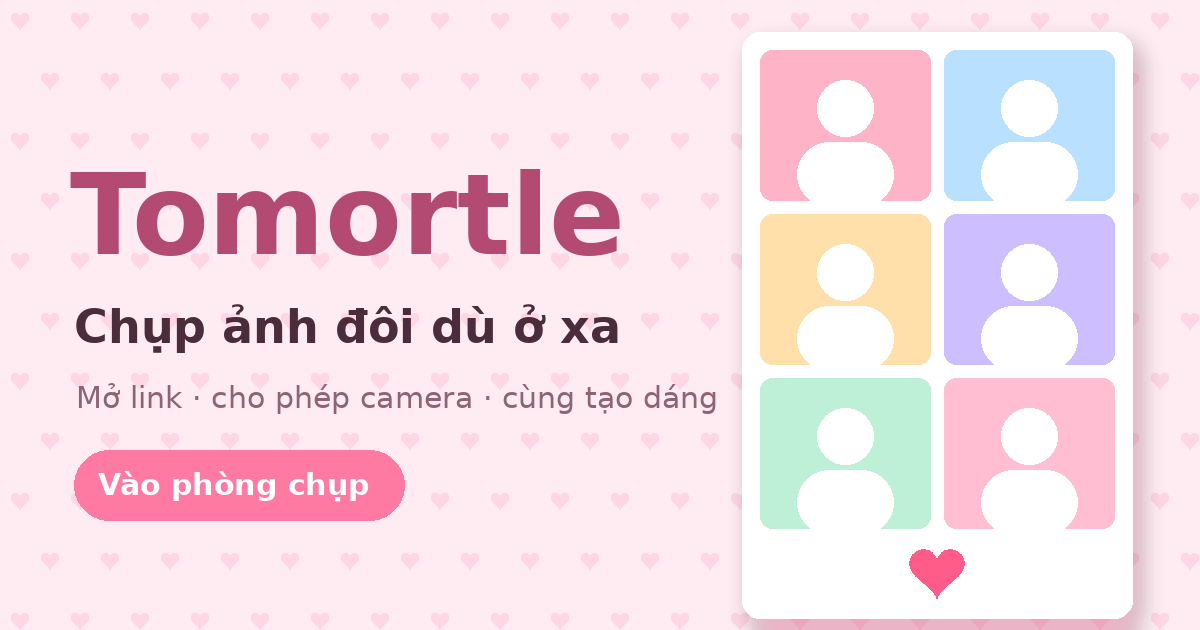
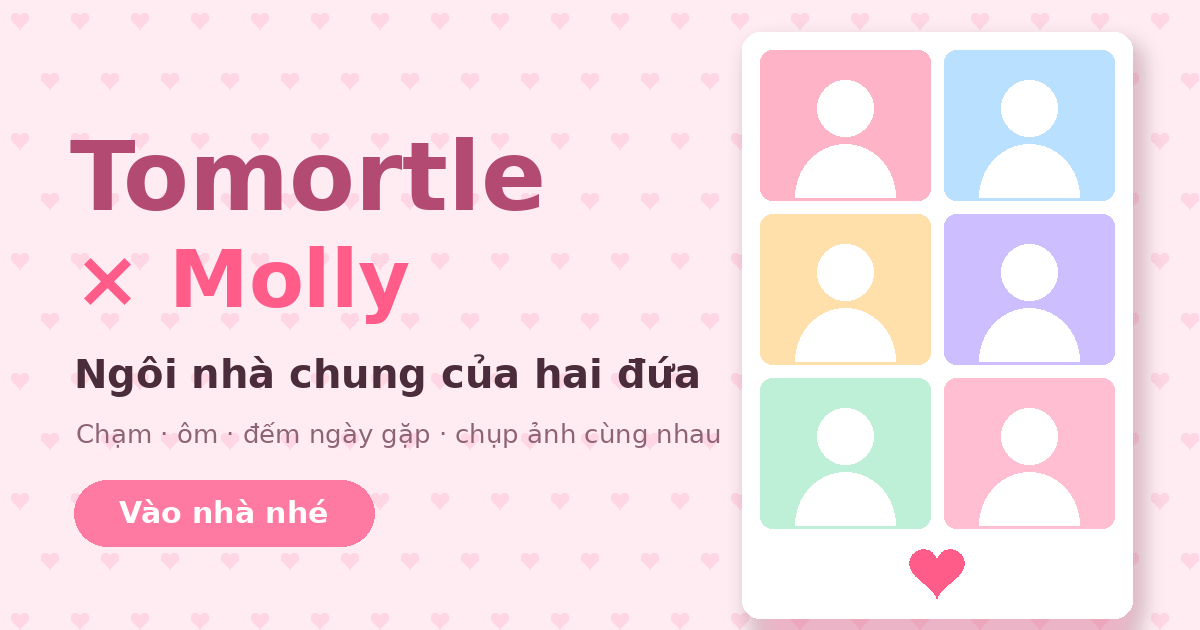
Đổi tên thành Tomortle × Molly
Claude-Session: https://claude.ai/code/session_01K9NQDeM4JAXpL9q5gmW5Tz

diff --git a/booth.html b/booth.html
@@ -4,11 +4,11 @@
 <meta charset="utf-8">
 <meta name="viewport" content="width=device-width,initial-scale=1,viewport-fit=cover">
 <meta name="theme-color" content="#fff3f6">
-<title>Tomortle – Photobooth online cho hai người</title>
+<title>Tomortle × Molly – Photobooth</title>
 <meta name="description" content="Chụp ảnh đôi dù ở xa: mở phòng, gửi link, đếm ngược và chụp cùng lúc.">
 <meta property="og:type" content="website">
 <meta property="og:url" content="https://hiull.github.io/tomortle/">
-<meta property="og:title" content="Tomortle ♡ Chụp ảnh đôi dù ở xa">
+<meta property="og:title" content="Tomortle × Molly ♡ Chụp ảnh đôi dù ở xa">
 <meta property="og:description" content="Vào phòng chụp ảnh với mình nè! Bấm link, cho phép camera rồi cùng tạo dáng.">
 <meta property="og:image" content="https://hiull.github.io/tomortle/og.png">
 <meta property="og:image:width" content="1200">
@@ -403,7 +403,7 @@ function mulberry(a){return function(){a|=0;a=a+0x6D2B79F5|0;let t=Math.imul(a^a
 function fname(ext='png'){const d=new Date(),p=n=>String(n).padStart(2,'0');return `tomortle-${d.getFullYear()}${p(d.getMonth()+1)}${p(d.getDate())}-${p(d.getHours())}${p(d.getMinutes())}${p(d.getSeconds())}.${ext}`}
 const extOf=b=>b&&b.type==='image/gif'?'gif':'png';
 function downloadBlob(blob,name){const u=URL.createObjectURL(blob);const a=document.createElement('a');a.href=u;a.download=name;document.body.appendChild(a);a.click();a.remove();setTimeout(()=>URL.revokeObjectURL(u),4000)}
-async function shareBlob(blob){const f=new File([blob],fname(extOf(blob)),{type:blob.type||'image/png'});if(navigator.canShare&&navigator.canShare({files:[f]})){try{await navigator.share({files:[f],title:'Tomortle'})}catch(e){}}else{downloadBlob(blob,f.name);toast('Máy không hỗ trợ chia sẻ trực tiếp, đã tải ảnh về')}}
+async function shareBlob(blob){const f=new File([blob],fname(extOf(blob)),{type:blob.type||'image/png'});if(navigator.canShare&&navigator.canShare({files:[f]})){try{await navigator.share({files:[f],title:'Tomortle × Molly'})}catch(e){}}else{downloadBlob(blob,f.name);toast('Máy không hỗ trợ chia sẻ trực tiếp, đã tải ảnh về')}}
 function loadImage(src){return new Promise((res,rej)=>{const i=new Image();i.onload=()=>res(i);i.onerror=rej;i.src=src})}
 function toCanvas(img,max=1600){const s=Math.min(1,max/Math.max(img.width,img.height));const c=document.createElement('canvas');c.width=Math.round(img.width*s);c.height=Math.round(img.height*s);c.getContext('2d').drawImage(img,0,0,c.width,c.height);return c}
 async function fileToCanvas(file,max){const u=URL.createObjectURL(file);try{return toCanvas(await loadImage(u),max)}finally{URL.revokeObjectURL(u)}}
@@ -556,7 +556,7 @@ function onData(d){
     case 'photo':{const b=new Blob([d.buf],{type:d.type==='image/gif'?'image/gif':'image/png'});const it=addAlbum(b,'them');toast((partnerName||'Người ấy')+(d.type==='image/gif'?' vừa gửi GIF cho bạn ♡':' vừa gửi ảnh cho bạn ♡'),'Xem',()=>viewItem(it));break}
   }
 }
-$('#btnInvite').onclick=async()=>{const url=roomLink();if(navigator.share){try{await navigator.share({title:'Tomortle',text:'Vào chụp ảnh với mình nè ♡ Mã phòng: '+roomCode,url});return}catch(e){if(e.name==='AbortError')return}}copyLink()};
+$('#btnInvite').onclick=async()=>{const url=roomLink();if(navigator.share){try{await navigator.share({title:'Tomortle × Molly',text:'Vào chụp ảnh với mình nè ♡ Mã phòng: '+roomCode,url});return}catch(e){if(e.name==='AbortError')return}}copyLink()};
 $('#btnCopy').onclick=copyLink;
 async function copyLink(){const url=roomLink();try{await navigator.clipboard.writeText(url);toast('Đã copy link mời')}catch(e){toast('Link: '+url)}}
 $('#btnLeave').onclick=()=>{try{peer&&peer.destroy()}catch(e){}localStream&&localStream.getTracks().forEach(t=>t.stop());location.href=location.pathname};

diff --git a/index.html b/index.html
@@ -4,11 +4,11 @@
 <meta charset="utf-8">
 <meta name="viewport" content="width=device-width,initial-scale=1,viewport-fit=cover">
 <meta name="theme-color" content="#fff3f6">
-<title>Tomortle – Ngôi nhà chung của hai đứa</title>
+<title>Tomortle × Molly – Ngôi nhà chung</title>
 <meta name="description" content="Không gian riêng cho hai người yêu xa: chạm, ôm, đếm ngày gặp, chụp ảnh cùng nhau.">
 <meta property="og:type" content="website">
 <meta property="og:url" content="https://hiull.github.io/tomortle/">
-<meta property="og:title" content="Tomortle ♡ Ngôi nhà chung của hai đứa">
+<meta property="og:title" content="Tomortle × Molly ♡ Ngôi nhà chung">
 <meta property="og:description" content="Chạm, ôm, đếm ngày gặp và chụp ảnh cùng nhau dù ở xa.">
 <meta property="og:image" content="https://hiull.github.io/tomortle/og.png">
 <meta property="og:image:width" content="1200">
@@ -19,7 +19,7 @@
 <link rel="apple-touch-icon" href="icon-180.png">
 <meta name="apple-mobile-web-app-capable" content="yes">
 <meta name="mobile-web-app-capable" content="yes">
-<meta name="apple-mobile-web-app-title" content="Tomortle">
+<meta name="apple-mobile-web-app-title" content="Tomortle×Molly">
 <meta name="apple-mobile-web-app-status-bar-style" content="default">
 <link rel="preconnect" href="https://fonts.googleapis.com">
 <link rel="preconnect" href="https://fonts.gstatic.com" crossorigin>
@@ -29,7 +29,7 @@
 <body>
 <div class="app">
   <header>
-    <div class="logo"><i>♡</i>Tomortle</div>
+    <div class="logo"><i>♡</i>Tomortle <span style="color:var(--accent)">×</span> Molly</div>
     <div class="sp"></div>
     <button class="btn small hidden" id="btnSettings">Cài đặt</button>
   </header>
@@ -87,7 +87,7 @@
 
   <!-- HOME -->
   <section class="screen" id="scrHome">
-    <div class="install hidden card" id="installBox"><span>📲</span><span class="sp" id="installText">Cài Tomortle ra màn hình chính để mở nhanh như app.</span><button class="btn small primary" id="btnInstall">Cài</button><button class="btn small ghost" id="btnInstallX">✕</button></div>
+    <div class="install hidden card" id="installBox"><span>📲</span><span class="sp" id="installText">Cài Tomortle × Molly ra màn hình chính để mở nhanh như app.</span><button class="btn small primary" id="btnInstall">Cài</button><button class="btn small ghost" id="btnInstallX">✕</button></div>
 
     <div class="card">
       <div class="couple">
@@ -190,7 +190,7 @@
     <li>Mở trang này bằng <b>Safari</b>.</li>
     <li>Bấm nút <b>Chia sẻ</b> (ô vuông có mũi tên lên).</li>
     <li>Chọn <b>Thêm vào MH chính</b> rồi bấm <b>Thêm</b>.</li>
-    <li>Từ giờ mở Tomortle bằng icon trên màn hình chính.</li>
+    <li>Từ giờ mở Tomortle × Molly bằng icon trên màn hình chính.</li>
   </ol>
 </div></div>
 

diff --git a/app.js b/app.js
@@ -155,8 +155,8 @@ $('#pJoin').onclick = async () => {
   toast('Ghép đôi thành công ♡'); route();
 };
 $('#pShare').onclick = async () => {
-  const text = `Vào Tomortle với mình nhé ♡\n1. Mở ${location.origin + location.pathname}\n2. Tạo tài khoản\n3. Nhập mã: ${couple.invite_code}`;
-  if (navigator.share) { try { await navigator.share({ title: 'Tomortle', text }); return } catch (e) { if (e.name === 'AbortError') return } }
+  const text = `Vào Tomortle × Molly với mình nhé ♡\n1. Mở ${location.origin + location.pathname}\n2. Tạo tài khoản\n3. Nhập mã: ${couple.invite_code}`;
+  if (navigator.share) { try { await navigator.share({ title: 'Tomortle × Molly', text }); return } catch (e) { if (e.name === 'AbortError') return } }
   try { await navigator.clipboard.writeText(text); toast('Đã copy lời mời') } catch (e) { toast('Mã: ' + couple.invite_code) }
 };
 

diff --git a/sw.js b/sw.js
@@ -1,4 +1,4 @@
-const CACHE = 'tomortle-v1';
+const CACHE = 'tomortle-v2';
 const SHELL = ['./', './index.html', './app.css', './app.js', './booth.html', './icon.svg', './icon-192.png', './icon-180.png', './manifest.webmanifest'];
 self.addEventListener('install', e => { e.waitUntil(caches.open(CACHE).then(c => c.addAll(SHELL)).catch(() => {})); self.skipWaiting() });
 self.addEventListener('activate', e => { e.waitUntil(caches.keys().then(ks => Promise.all(ks.filter(k => k !== CACHE).map(k => caches.delete(k)))).then(() => self.clients.claim())) });
